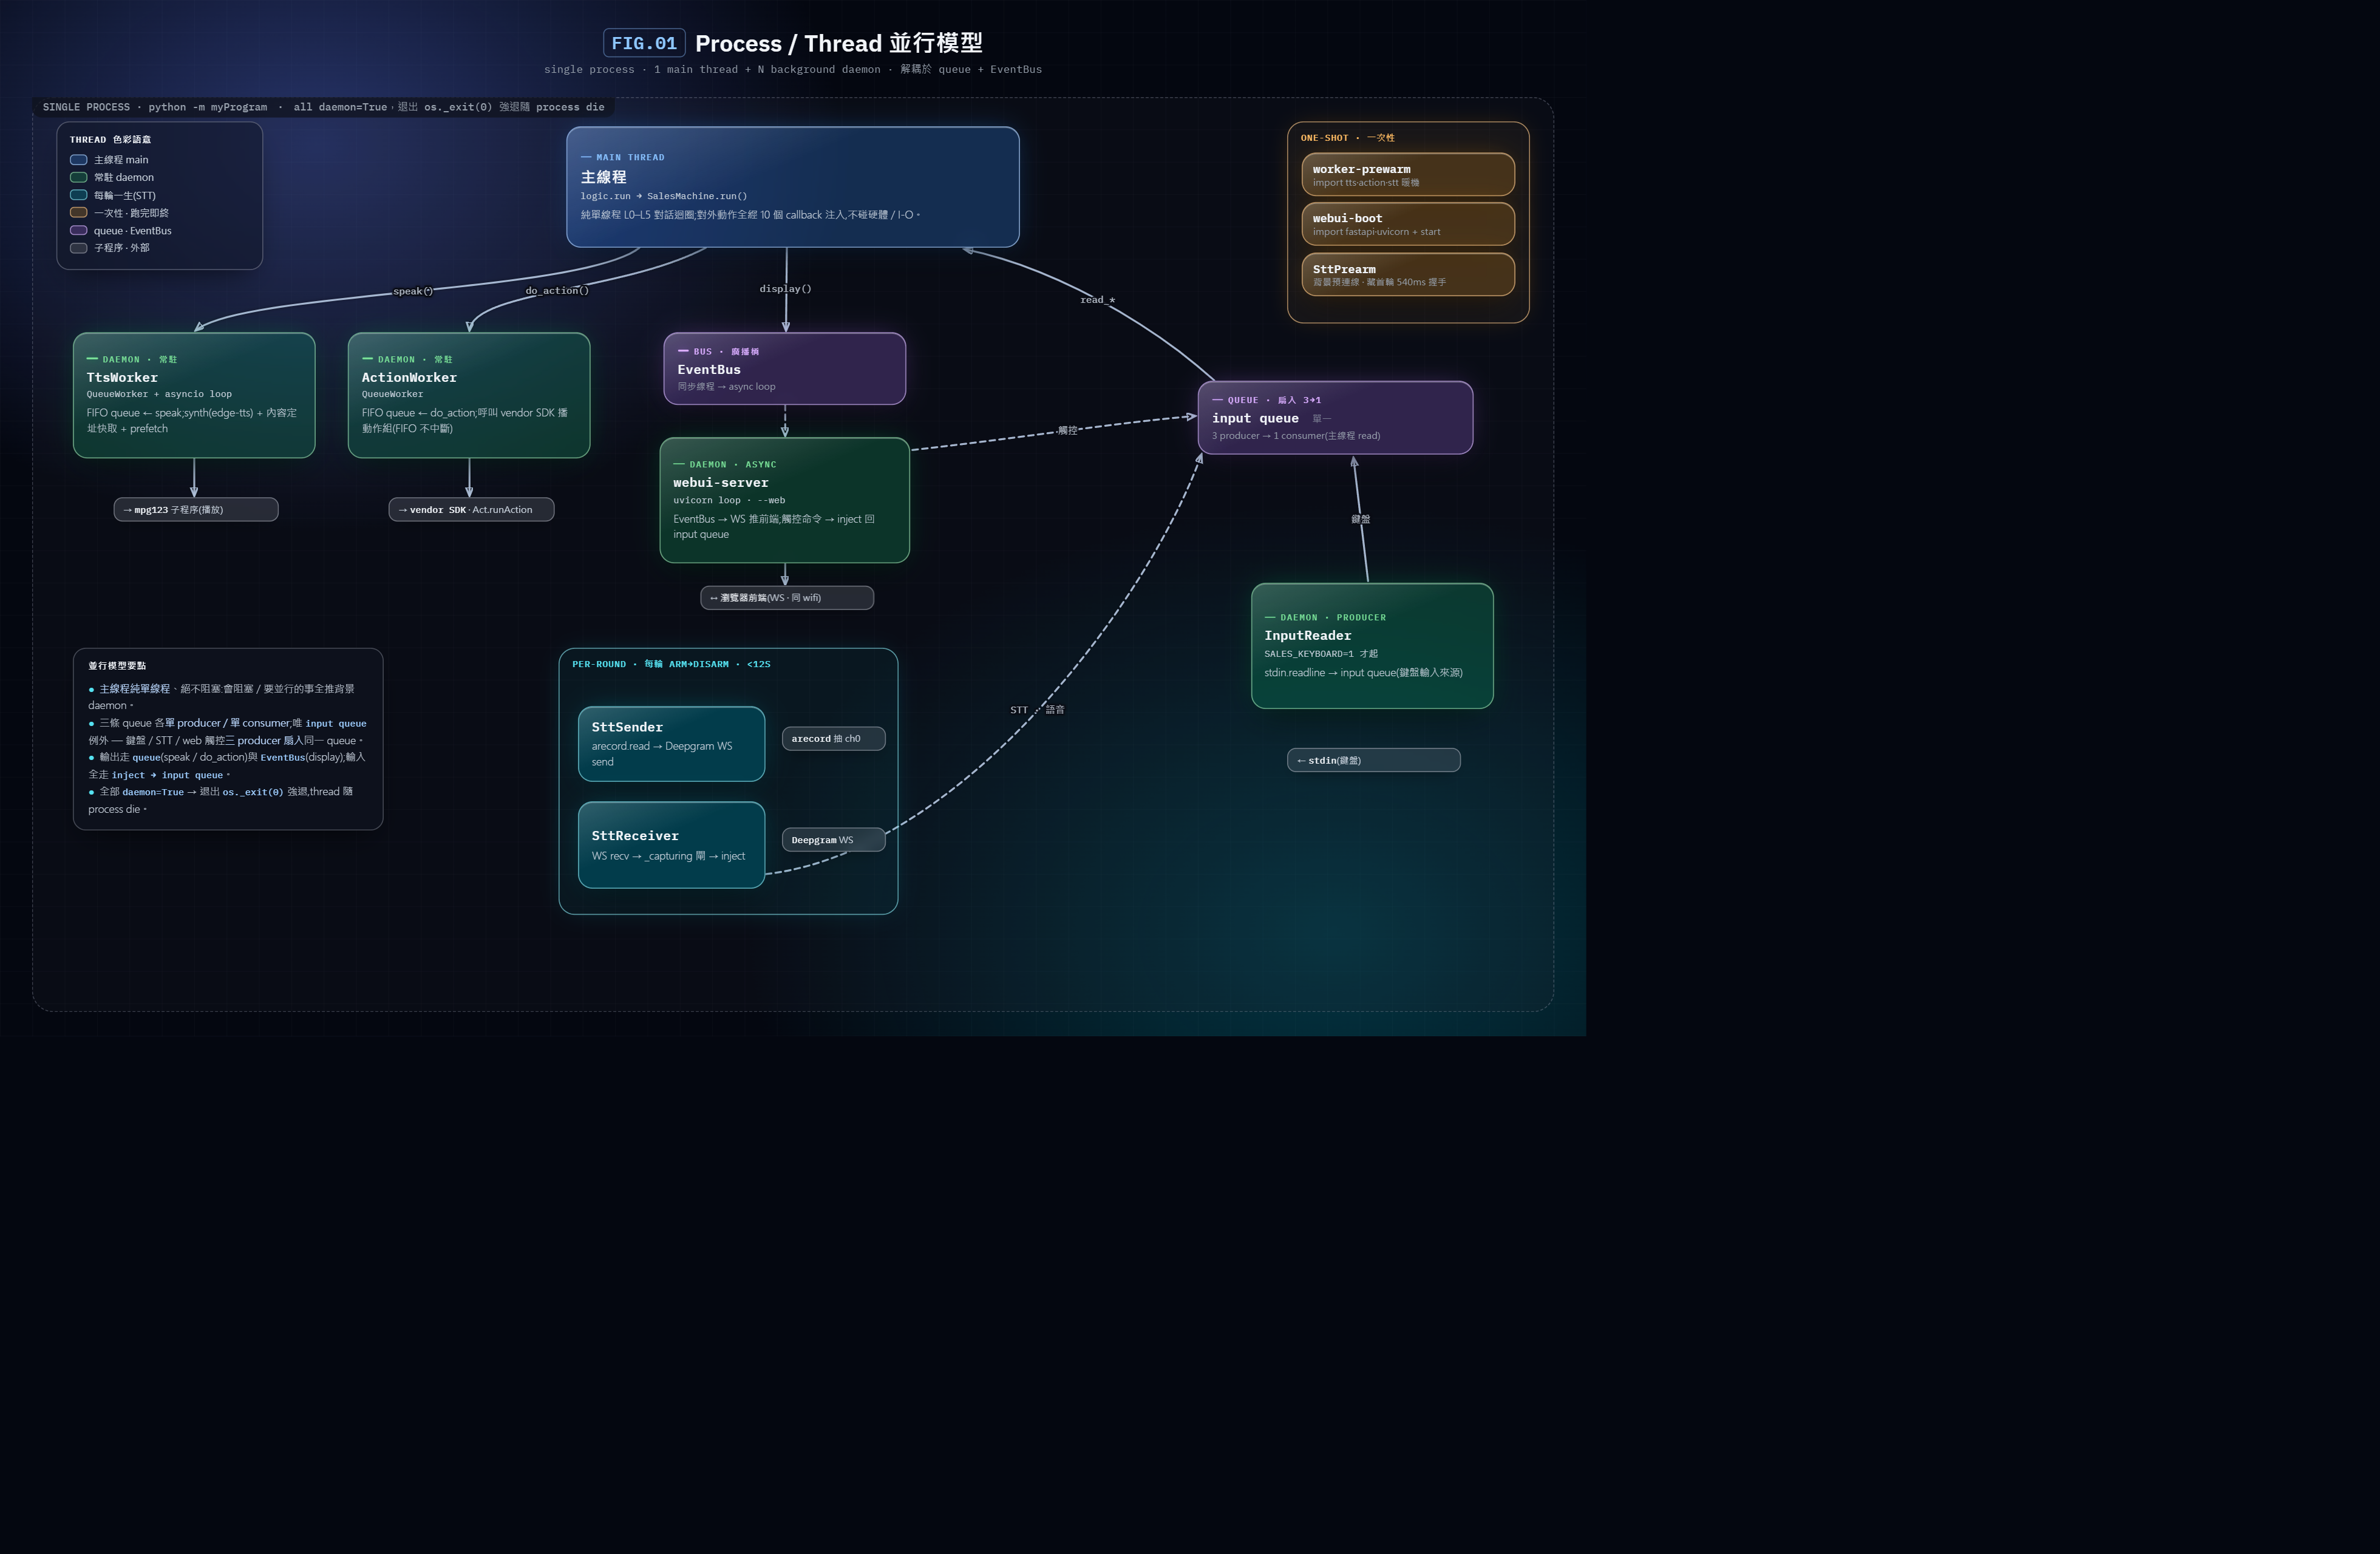
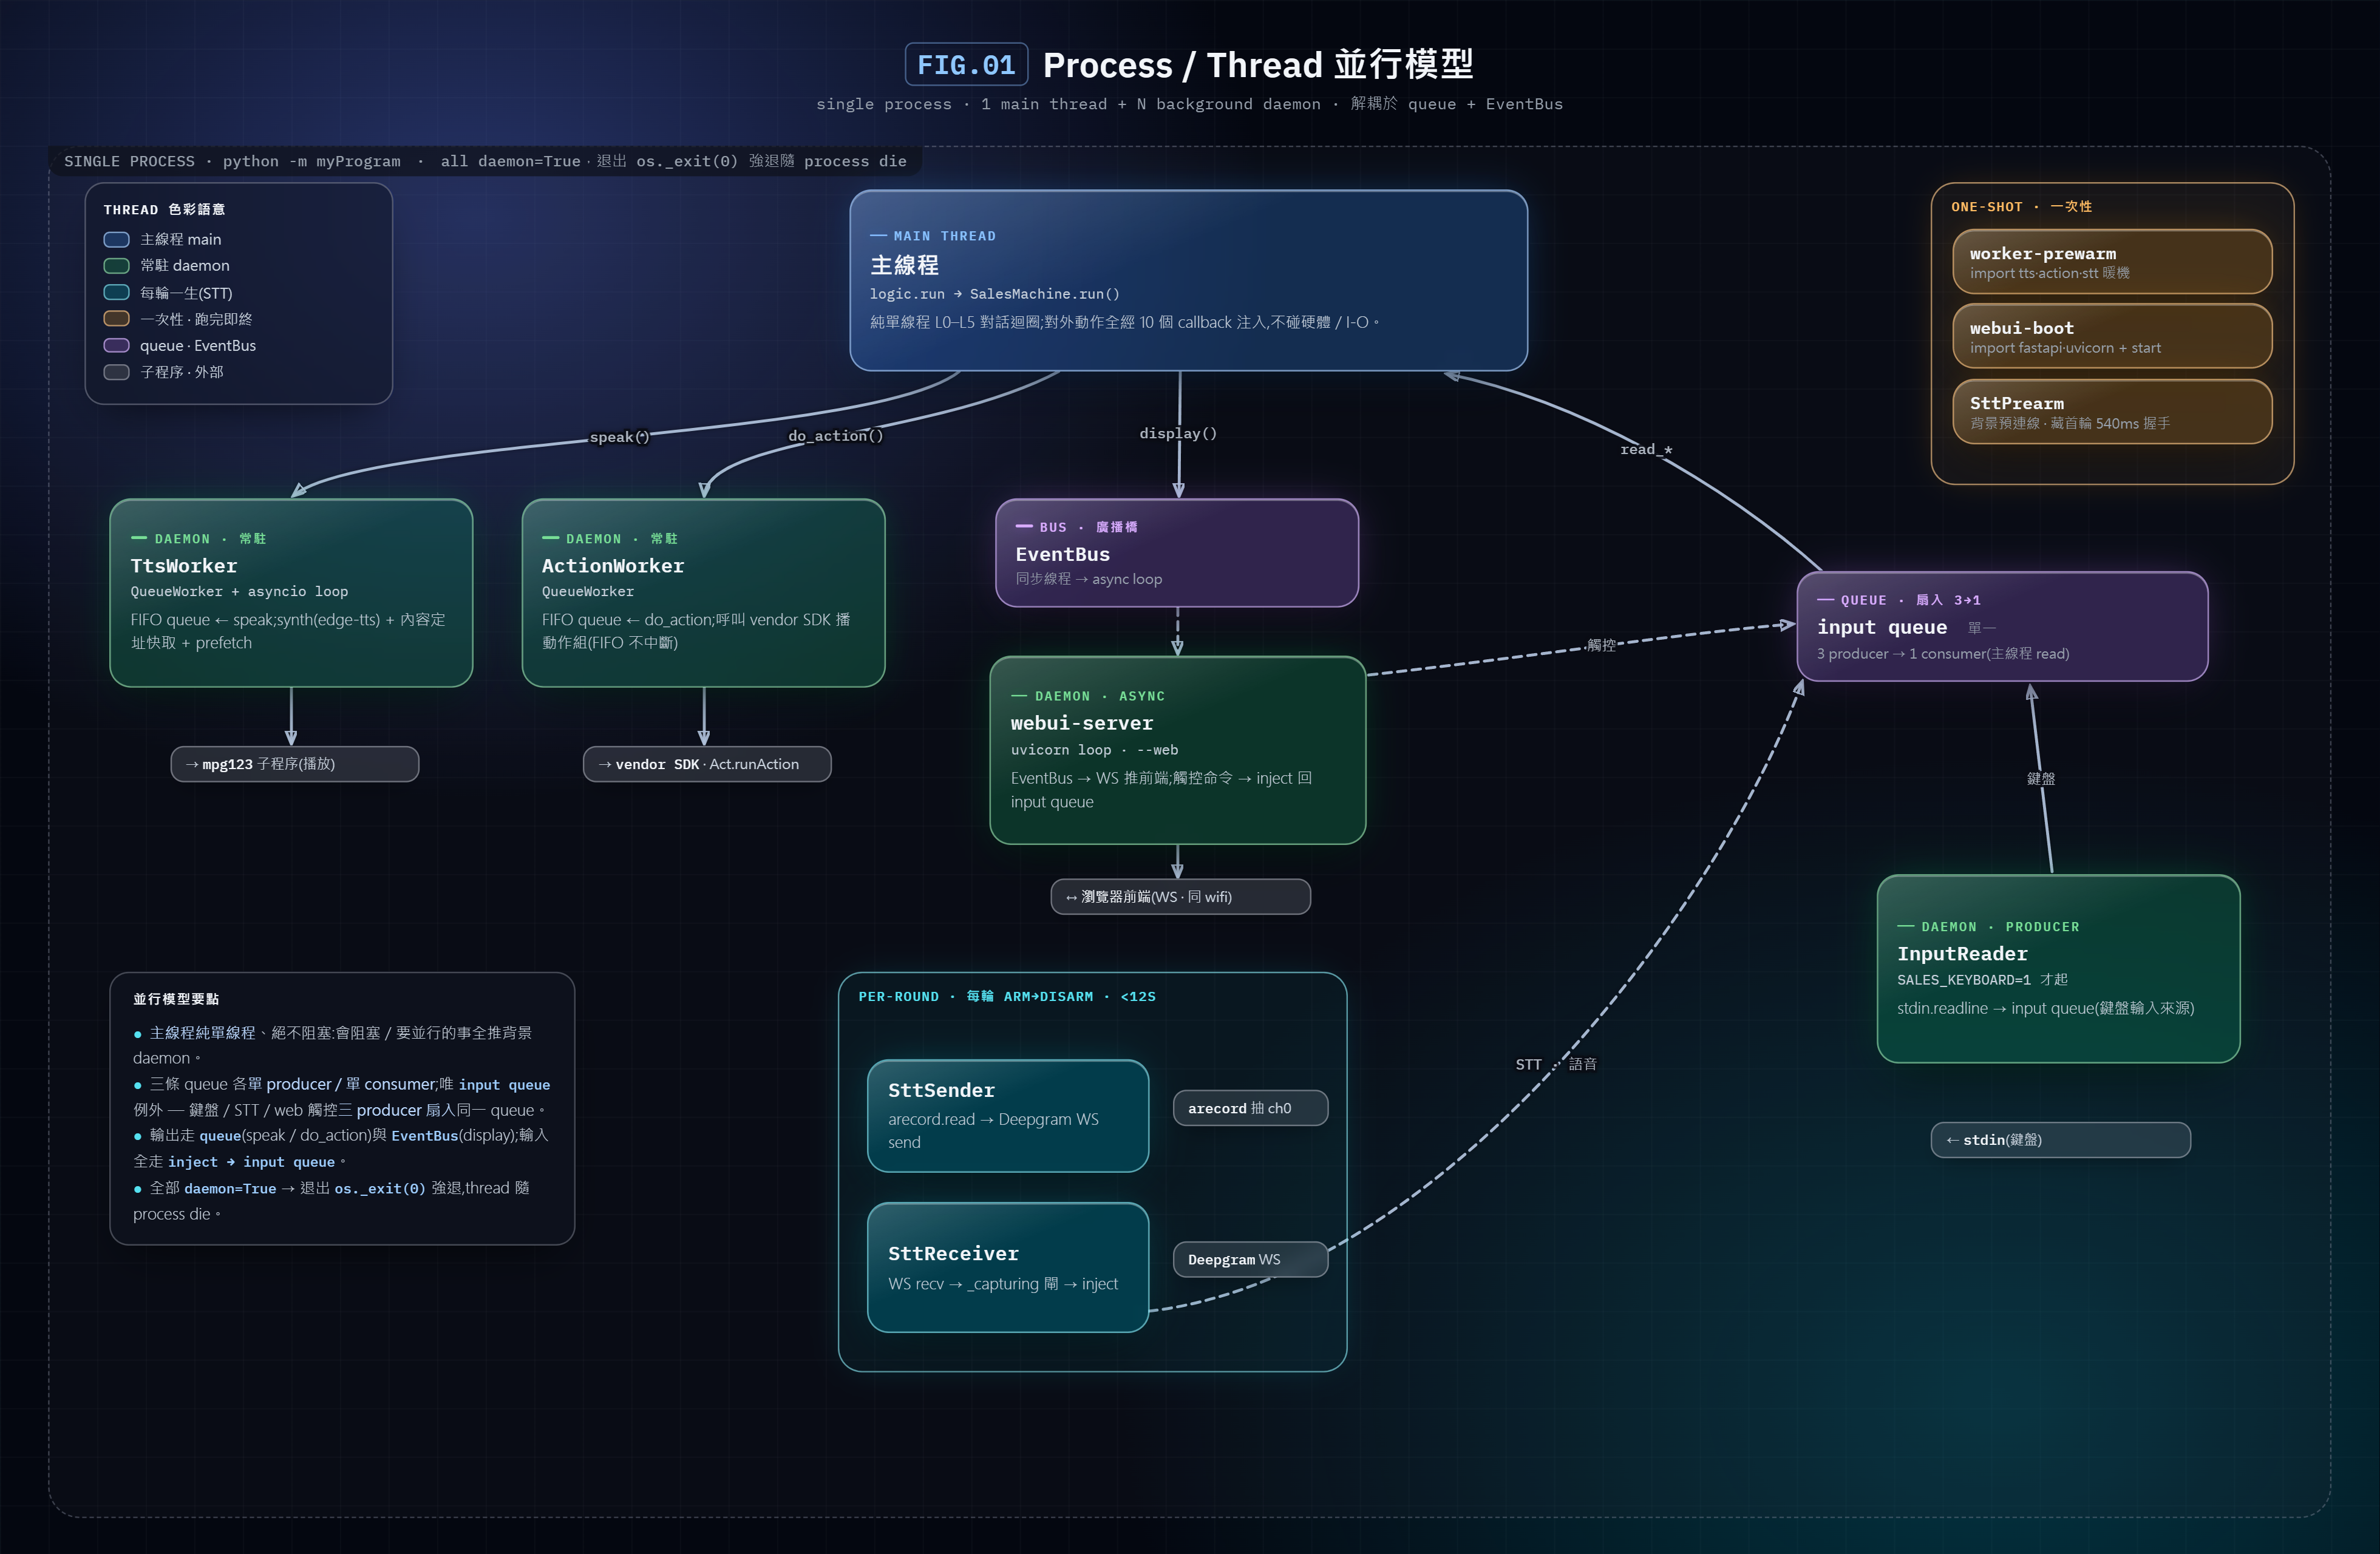
fix(diagrams): 修黑邊匯出 + HTML 可捲動不裁頂（圖①）
兩個使用者回報的問題:
- body 用 flex 置中,視窗比畫布(1280px 高)矮時頂部被裁且無法捲動 →
  改 block flow + .stage `margin:0 auto`,任何視窗都能完整看 + 捲動。
- 交付 PNG/SVG 右下一大片黑邊:成因是此 Chromium DPR 固定 0.667,
  舊的 transform + 視窗截圖縮放對不齊。改用「device viewport 反推 + 畫布
  scale 填滿 CSS 視窗 + margin 歸 0」精準匯出 → 重出乾淨 2× PNG（3920×2560，
  四角皆畫布本身深色背景、零黑邊）並重建 SVG。

Claude-Session: https://claude.ai/code/session_013NPGkM4D4vDkzWMSK6bf6v

diff --git a/resources/architecture/diagrams/theme/diagram.css b/resources/architecture/diagrams/theme/diagram.css
@@ -7,14 +7,13 @@
 @import url("tokens.css");
 
 * { box-sizing: border-box; margin: 0; padding: 0; }
-html, body { width: 100%; height: 100%; }
+html, body { width: 100%; }
 
+/* 不用 flex 置中(視窗比畫布矮時 flex 會裁頂且不可捲動);改 block flow,
+   .stage 以 margin:auto 水平置中、頂端對齊 → 任何視窗都能完整看 + 捲動。 */
 body {
   font-family: var(--font);
   background: var(--bg-base);
-  display: flex;
-  align-items: center;
-  justify-content: center;
   -webkit-font-smoothing: antialiased;
   text-rendering: optimizeLegibility;
 }
@@ -24,6 +23,7 @@ body {
 .stage {
   position: relative;
   overflow: hidden;
+  margin: 0 auto;   /* 水平置中(視窗夠寬時);頂端對齊 → 不裁頂、可捲動 */
   background:
     radial-gradient(46% 52% at 20% 14%, oklch(60% 0.18 270 / 0.40), transparent 72%),
     radial-gradient(50% 56% at 84% 90%, oklch(60% 0.17 205 / 0.32), transparent 74%),